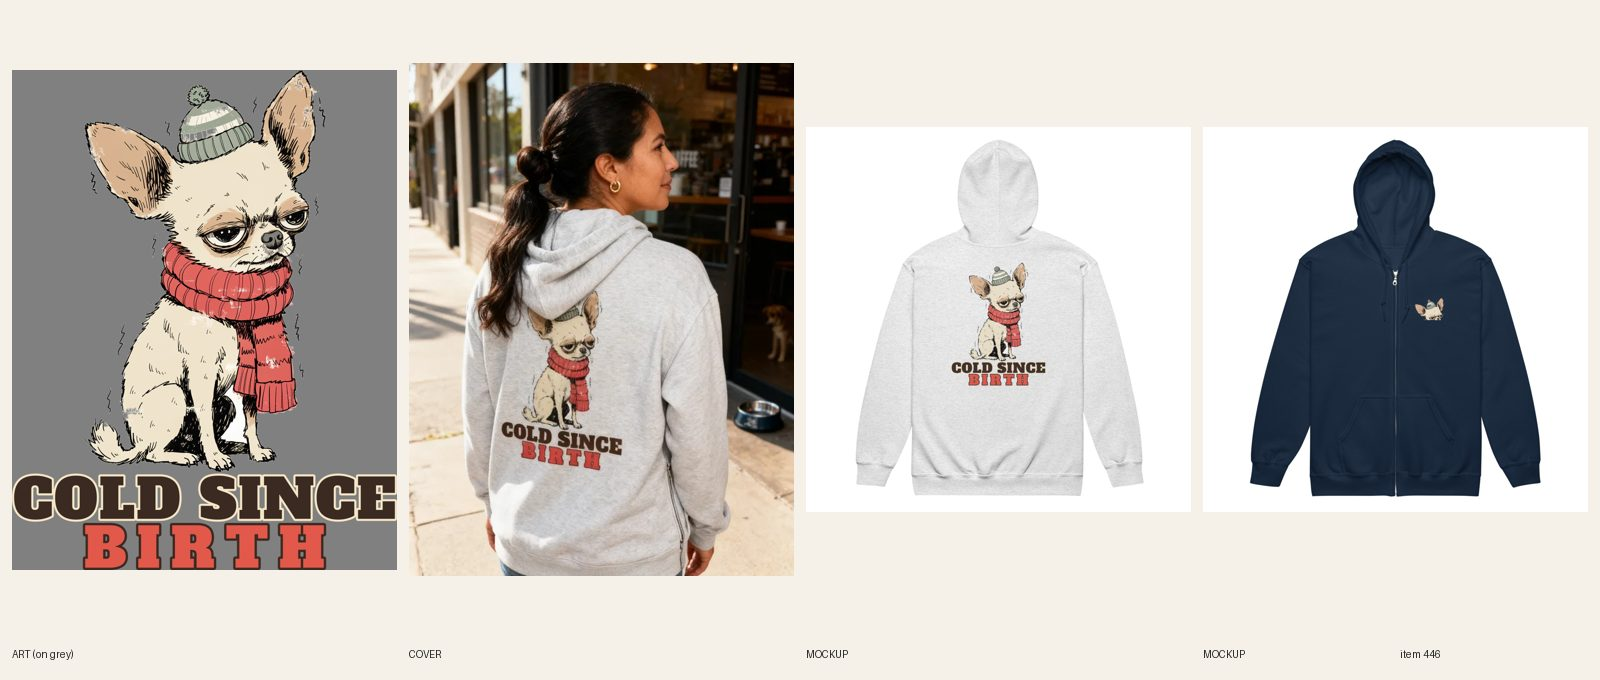
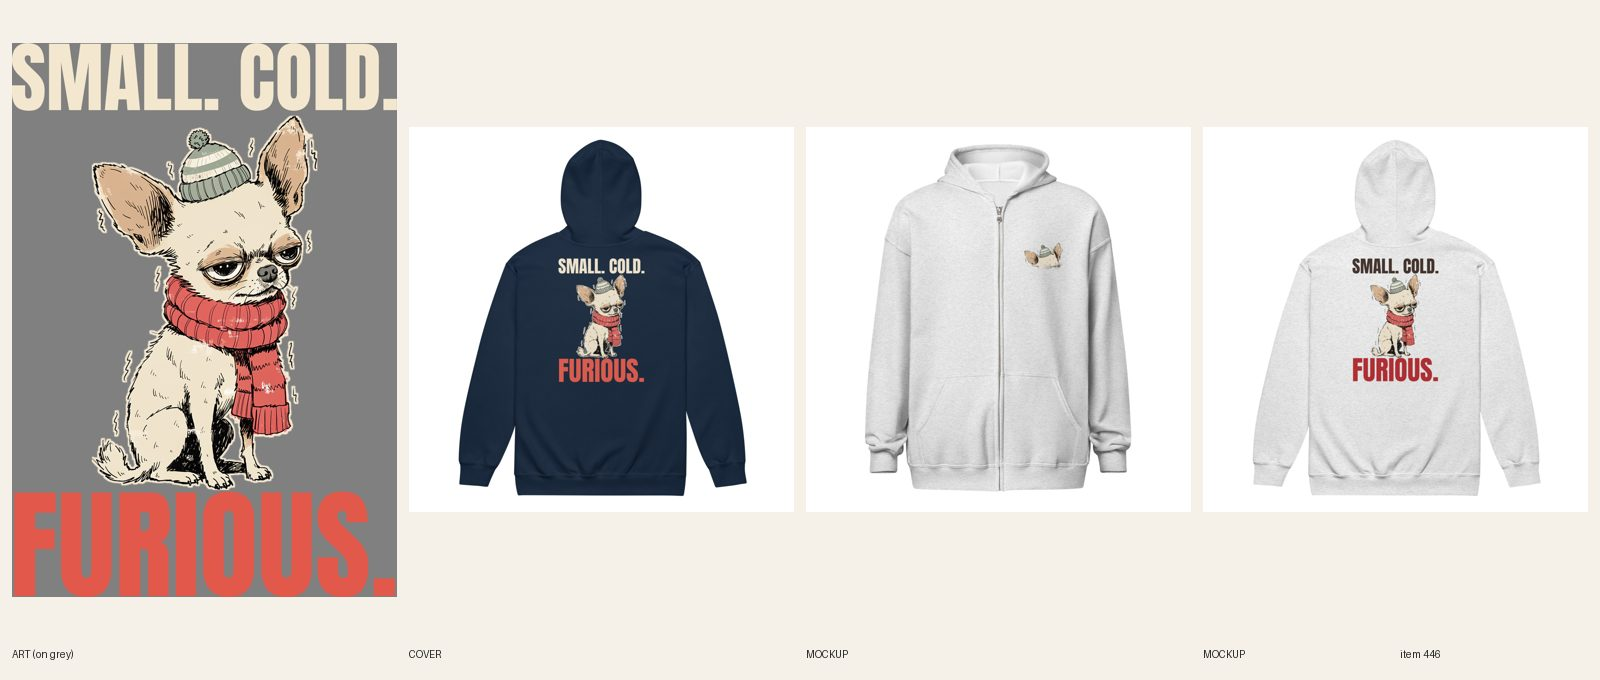
[B] review 446 Small Cold Furious chihuahua zip hoodie (line + type redo)

diff --git a/docs/pipeline/446-chihuahua-zip-hoodie-cold-since-birth.md b/docs/pipeline/446-chihuahua-zip-hoodie-cold-since-birth.md
@@ -1,4 +1,4 @@
-status: REDO
+status: REVIEW
 lane: B
 type: new
 id: 446
@@ -30,3 +30,4 @@ kd: 28
 - 2026-10-17 21:30 UTC builder [B]: synced 12/12. REVIEW. Sheet docs/review/446.jpg.
 - 2026-10-17 22:39 UTC director: APPROVED, LIVE. ACTIVE + Online Store, Headless and Google & YouTube; audit --handle PASS (0 warn). Copy polished by the director first (R8: keyword counts, superlatives, false claims).
 - 2026-10-18 17:22 UTC director: QUALITY RESET grade C (new line + type), REDO. The product stays ACTIVE (same handle, URL, title keyword). 1. Line (R3.12, quality-reset 'Lines'): "COLD SINCE / BIRTH": Mild statement describing the shivering chihuahua. Write 5 candidates, keep the one a stranger laughs at in 3 seconds without backstory; kill lines that only describe the picture; if none of the 5 is funny, PARK it. 2. Quality reset type bar (docs/backlog/quality-reset.md, 'The new bar'): headline at least 90% of the art width, heavy, colors pulled from the art; second line at least 45% of the headline's height, never a thin script on a dark or mid garment; use the lettering as a shape (arch, stacked lockup, words breaking into the art), not a plain bar above and a script line below; no font used on more than 1 in 6 of the last 30 designs. 3. Keep the art if it carries the new line, else one new illustration (R4/R5). New print means a new cover per R6.10, copy line one rewritten for the new joke (R8.3), and a fresh review sheet (R7.7). While quality-reset.md says PAUSED, only lane A builds, and only the samples step 2 names.
+- 2026-10-20 11:20 UTC builder [B]: REDO 446 (C grade, line + type) done in place (stays ACTIVE, handle unchanged; title now "Women's Chihuahua – Small. Cold. Furious. Zip Hoodie"). 5 candidates: "SMALL. COLD. / FURIOUS."; "Cold Since Birth" (old); "I'm Not Shaking, I'm Seething"; "Tiny Dog, Big Grudge"; "Sweater Weather Is A Threat". Kept SMALL. COLD. / FURIOUS. (three-beat build, the scowl in the art is the punchline). Same chihuahua art, no fal ($0); left-chest head copy unchanged (file 1088476070, no words). Anton: SMALL. COLD. above (62% of print width), FURIOUS. below as the loud punch line (second line is bigger than the first by design; headline 169% of art width). Navy back file 1090182601 (cream + coral, thin cream halo); Ash back file 1090182604 (headline fill dark brown, second line red; light file logged for Ash). Zip layout: back BW 1500 BT 150 (the art is tall: ratio 1.44 would overrun the 2400 px back area at 1650), chest 525 px. 12/12 synced: back on the new file per color, chest unchanged. Back + front mockups replaced in place (alts updated), title, SEO, copy, FAQs rewritten (ink named from the mockups). Phone-size read OK on both backs. Cover: handle added to retired-covers.json. audit --handle PASS 0 warn. Sheet docs/review/446.jpg.

diff --git a/docs/intake-log.md b/docs/intake-log.md
@@ -1,5 +1,7 @@
 RUNNING lane E since 2026-10-20 05:16 UTC
 2026-10-20 05:16 UTC — [D] Director run (RESUMED). LIVE 6 (cap): #649 #205 #217 #219 #326 #356 (approved earlier and held; #649 set ACTIVE + published on Online Store, Headless, Google & YouTube; audit --handle PASS 0 warn each). Reviewed 20 new redo sheets side by side with 493 and 483: approved and held 10 (#382 #459 #499 #503 #514 #533 #563 #620 #622 #637); REDO 10: #280 #318 #380 #396 #513 #519 (joke line narrower than headline, R3.7.8, 10th hit in two runs: added builder card 7h, log both widths), #257 #258 (R3.13 template line), #448 #495 (R3.1 sound-alike puns). Inbox: nothing new since the Black Friday note (Sam already asked about the deal and set discount). READY: A 13, B 12, C 17, E 12, no new briefs needed. No Telegram (digest not due, nothing new for Sam). Held next, in order: #358 #650, then the 15 from 04:16, then the 10 above, then the 31 add-ons. Lock released.
+RUNNING director since 2026-10-20 05:13 UTC
+2026-10-20 05:24 UTC — [B] Builder run: redid #446 Women's Chihuahua zip hoodie (line + type: SMALL. COLD. / FURIOUS., same art, Anton, Navy + Ash back files, 12/12 synced). REVIEW. fal $0.
 2026-10-20 04:46 UTC — [H] Helper run: Telegram inbox empty (getUpdates returned 0 updates; nothing to consume). Audit 607 live products: 0 errors, 31 warnings left alone (polish); committed docs/cohesion-audit.md. Category check: 0 products without a Shopify category. Site check: #548, #578, #618 all 200. Stuck-work check: nothing BUILDING over 3h (#257 and #258 claimed 04:07); lane A lock line from 02:28 is over 2h old but lane A committed at 04:06, so Telegram alert sent once (reply pending from Sam). Daily summary not due (before 12:00 UTC). Lock released.
 2026-10-20 05:14 UTC — [B] Builder run: redid #378 Women's Nurse crewneck (line + type: I'M FINE. / THE IV IS COFFEE., new coffee-IV art, Bowlby One, Sand + Ash dark-ink file, 12/12 synced). REVIEW. fal $0.04.
 2026-10-20 05:06 UTC — [B] Builder run: redid #380 Women's Football Mom crewneck (line + type: RULES: UNKNOWN. / SNACKS: PACKED., new snack-pile art, Bevan, Sand + Sport Grey dark-ink file, 12/12 synced). REVIEW. fal $0.04.
